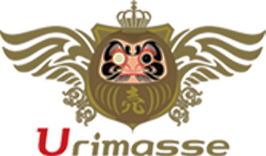
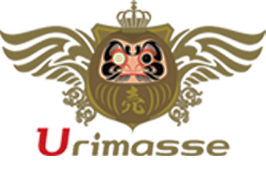
@

diff --git a/css/style.css b/css/style.css
@@ -90,6 +90,7 @@ body>div.row {
 	background-repeat: no-repeat;
 	background-position: center center;
 	background-size: contain;
+	background-color: white;
 }
 
 #content1 {
@@ -122,6 +123,7 @@ body>div.row {
 	padding: 20px;
 	font-size: 66px;
 	color: white;
+	font-weight: bold;
 	z-index: 2;
 }
 #content1 .block1>img {
@@ -142,6 +144,7 @@ body>div.row {
     background-color: rgba(34, 34, 34, 0.83);
     color: #e2c96e;
     font-size: 36px;
+    font-weight: bold;
     text-align: center;
     transform: rotate(-20deg);
     padding-top: 22px;
@@ -226,13 +229,15 @@ body>div.row {
 	font-size: 33px;
 	padding-left: 30px;
 	padding-right: 30px;
+	font-weight: bold;
 }
 .system-box .title-system {
-	padding-left: 5%;
-	padding-right: 5%;
+/* 	padding-left: 3%; */
+/* 	padding-right: 3%; */
 }
 .system-box .title-system ul.list-style-none {
-	padding-left: 10%;
+	position: relative;
+    left: calc(50% - 180px);
 }
 .system-box  ul.list-style-none {
 	text-align: left;
@@ -247,6 +252,15 @@ body>div.row {
 	font-size: 60px;
 	font-weight: bold;
 }
+.sys-sub-title {
+	padding-top: 25px;
+	padding-left: 0;
+    padding-right: 0;
+}
+
+.sys-sub-title2 {
+	font-size: 24px;
+}
 .split {
 	border-bottom: 2px solid #b2b2b2!important;
 }
@@ -258,7 +272,7 @@ body>div.row {
 	padding-left: 10px;
 	padding-right: 0;
 	color: white;
-	font-size: 20px;
+	font-size: 30px;
 }
 .thumbnail ul.list-style-none {
 	margin-left: 15px;
@@ -275,7 +289,7 @@ body>div.row {
 	background-image: url("../images/image81.png");
 	background-repeat: no-repeat;
 	background-position: left center;
-	background-size: contain;
+	background-size: cover;
 	background-color: #d9d9d9;
 }
 #content2 .block2 {
@@ -322,9 +336,9 @@ body>div.row {
 	border-bottom: 2px solid #2e2e2e;
 }
 .promise-content {
-	margin-top: 100px;
+	margin-top: 50px;
 	width: 60%;
-	height: 40%;
+	height: 45%;
 	margin-left: auto;
 	margin-right: auto;
 	background-color: rgba(229, 229, 229, 0.66);
@@ -355,11 +369,12 @@ body>div.row {
 
 .tile-why h1 span {
 	color: white;
-	padding: 0 10%;
+	padding: 10px 10%;
 }
 
 .tile-why h3 {
 	text-align: center;
+	margin-top: 30px;
 }
 .why-content {
 	position: relative;
@@ -367,35 +382,38 @@ body>div.row {
 .why-content .why-bottom {
 	width: 100%;
 	position: absolute;
-	bottom: 5%;
+	bottom: 7%;
 	height: 30%;
 }
 .why-content .why-bottom>ul {
-	width: 40%;
-	margin-left: auto;
-	margin-right: auto;
-	padding-left: 10%;
+	width: 65%;
+    margin-left: auto;
+    margin-right: auto;
+    position: relative;
+    left: calc(30% - 150px);
 }
 .why-content .why-bottom>ul>li {
 	color: white;
 	padding: 5px 0;
+	font-size: 24px;
 }
 .color-red {
 	color: #ae0421;
 }
 .why2 {
 	margin-top: 30px;
-	color: white;
-	font-size: 25px;
-	width: 40%;
-	margin-left: auto;
-	margin-right: auto;
-/* 	padding: 10px; */
-	font-weight: bold;
+    color: white;
+    font-size: 48px;
+    width: 65%;
+    margin-left: auto;
+    margin-right: auto;
+    font-weight: bold;
+    position: relative;
+    left: calc(20% - 150px);
 }
 
 .why3 {
-	font-size: 60px;
+	font-size: 100px;
 	margin-left: 30%;
 	padding: 20px;
 	font-weight: bold;
@@ -480,7 +498,7 @@ body>div.row {
 }
 .caution {
     font-weight: bold;
-    font-size: 40px;
+    font-size: 50px;
     color: white;
 	background-color: rgba(45, 45, 45, 0.89);
 	text-align: center;
@@ -492,7 +510,7 @@ body>div.row {
 	padding-left: 20%;
 	padding-right: 15px;
 	position: relative;
-	top: 220px;
+	top: 120px;
 	font-size: 20px;
 	font-weight: bold;
 }
@@ -613,6 +631,7 @@ body>div.row {
 }
 .another-title h1>span {
 	border-bottom: 2px solid #474747;
+	padding-bottom: 10px;
 }
 .another-title h1:last-child {
 	padding-top: 20px;
@@ -622,6 +641,7 @@ body>div.row {
 	top: 300px;
 	padding-left: 50px;
 	width: 50%;
+	font-size: 24px;
 }
 .another-text p {
 	font-weight: bold;
@@ -948,11 +968,6 @@ body>div.row {
 	    left: 7%;
 	    z-index: 1;
 	    top: 200px;
-	}
-
-	.system-box .title-system {
-	    padding-left: 15%;
-	    padding-right: 15%;
 	}
 
 	.system {
@@ -1310,6 +1325,9 @@ body>div.row {
 
 	.why-content .why-bottom>ul {
 	    width: 75%;
+	}
+	.sys-sub-title2 {
+		font-size: 18px;
 	}
 }
 

diff --git a/index.html b/index.html
@@ -48,13 +48,13 @@
 						<li class="list-group-item split">
 							<span class="system">SYSTEM</span>
 						</li>
-						<li class="list-group-item">
+						<li class="list-group-item sys-sub-title">
 							<div class="col-xs-6 text-right">完全成功報酬型</div>
 							<div class="col-xs-6 text-left">販売サービス</div>
 							<div class="clearfix"></div>
 						</li>
 						<li class="list-group-item">
-							<ul class="list-style-none">
+							<ul class="list-style-none sys-sub-title2">
 								<li><span class="color-red">■</span><span>あなたの自慢商品</span></li>
 								<li><span class="color-red">■</span><span>これから売り出す新商品</span></li>
 								<li><span class="color-red">■</span><span>世の中に理もれている優れた商品</span></li>
@@ -77,7 +77,7 @@
 							</div>
 						</div>
 						<ul class="list-style-none">
-							<li><p>■我々独自の販売ルートを利用し、『お客様の商品を必要とするお客様』へ販売いたします。</p></li>
+							<li><p><span class="color-red">■</span>我々独自の販売ルートを利用し、『お客様の商品を必要とするお客様』へ販売いたします。</p></li>
 						</ul>
 					</div>
 				</div>
@@ -97,7 +97,7 @@
 							</div>
 						</div>
 						<ul class="list-style-none">
-							<li><p>■正式に依頼が確定した後は、お客様に代わりまして我々が誠心誠意販売していきます。</p></li>
+							<li><p><span class="color-red">■</span>正式に依頼が確定した後は、お客様に代わりまして我々が誠心誠意販売していきます。</p></li>
 						</ul>
 
 					</div>
@@ -114,7 +114,7 @@
 							</div>
 						</div>
 						<ul class="list-style-none">
-							<li><p>■弊社がお客様から頂く金額は、販売利益の３３％のみになります。完全成果報酬型なので、その他の料金は発生いたしません。</p></li>
+							<li><p><span class="color-red">■</span>弊社がお客様から頂く金額は、販売利益の３３％のみになります。完全成果報酬型なので、その他の料金は発生いたしません。</p></li>
 						</ul>
 					</div>
 				</div>
